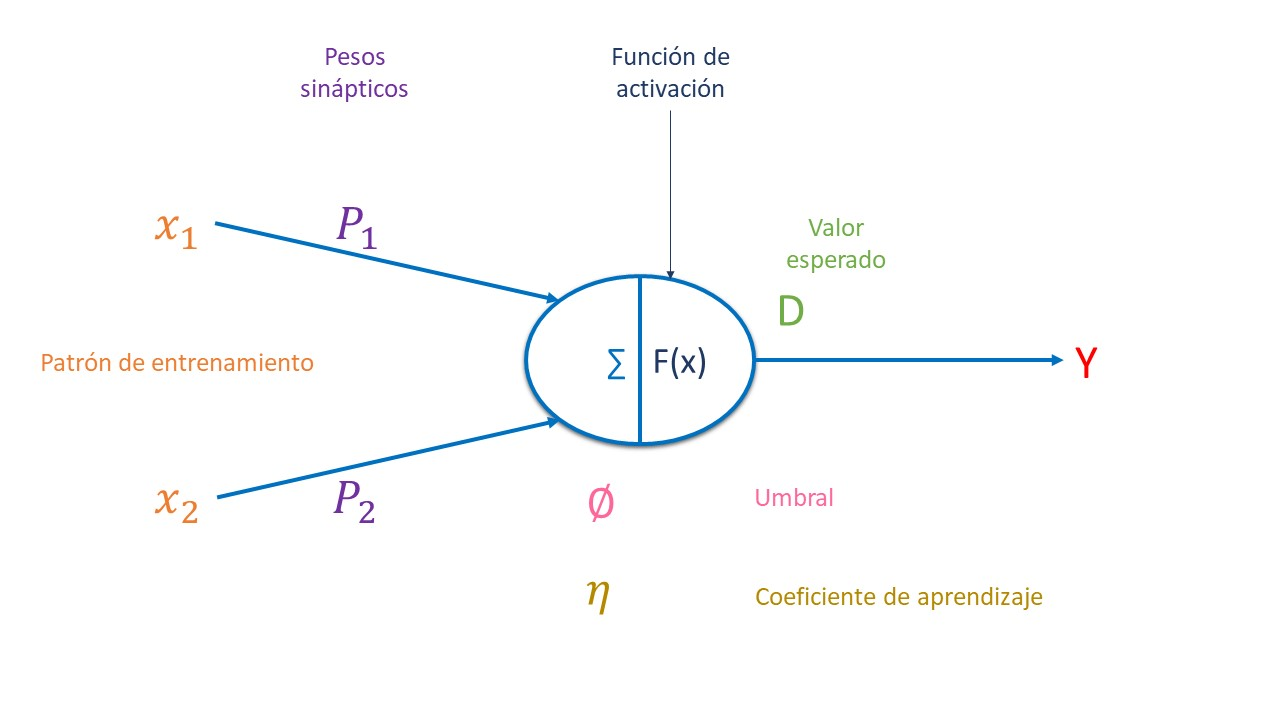
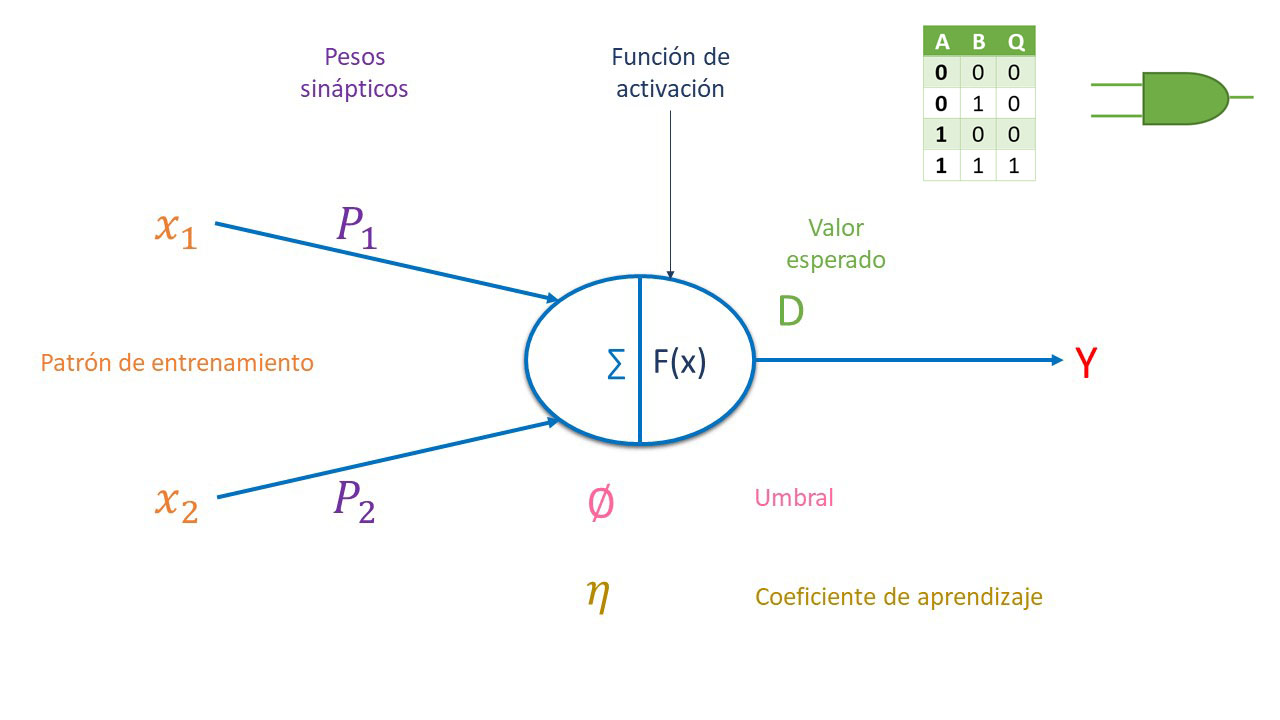
imagen compuerta

Changed region(s): [[0.7188, 0.0306, 0.8125, 0.2444], [0.8438, 0.0917, 0.9688, 0.1833], [0.75, 0.825, 0.8125, 0.8556]]

diff --git a/src/controller/indexController.java b/src/controller/indexController.java
@@ -31,7 +31,7 @@ public class indexController implements ActionListener {
         this.index.andButton.addActionListener(this);
         this.index.andOption.addActionListener(this);
         try {
-            img = new ImageIcon((this.getClass().getResource("/Images/ImagenPerceptron.jpg"))).getImage();
+            img = new ImageIcon((this.getClass().getResource("/Images/ImagenPerceptron1.jpg"))).getImage();
             Image dim = img.getScaledInstance(this.index.background.getWidth(), this.index.background.getHeight(), Image.SCALE_SMOOTH);
             ImageIcon imageIcon = new ImageIcon(dim);
             this.index.background.setIcon(imageIcon);
